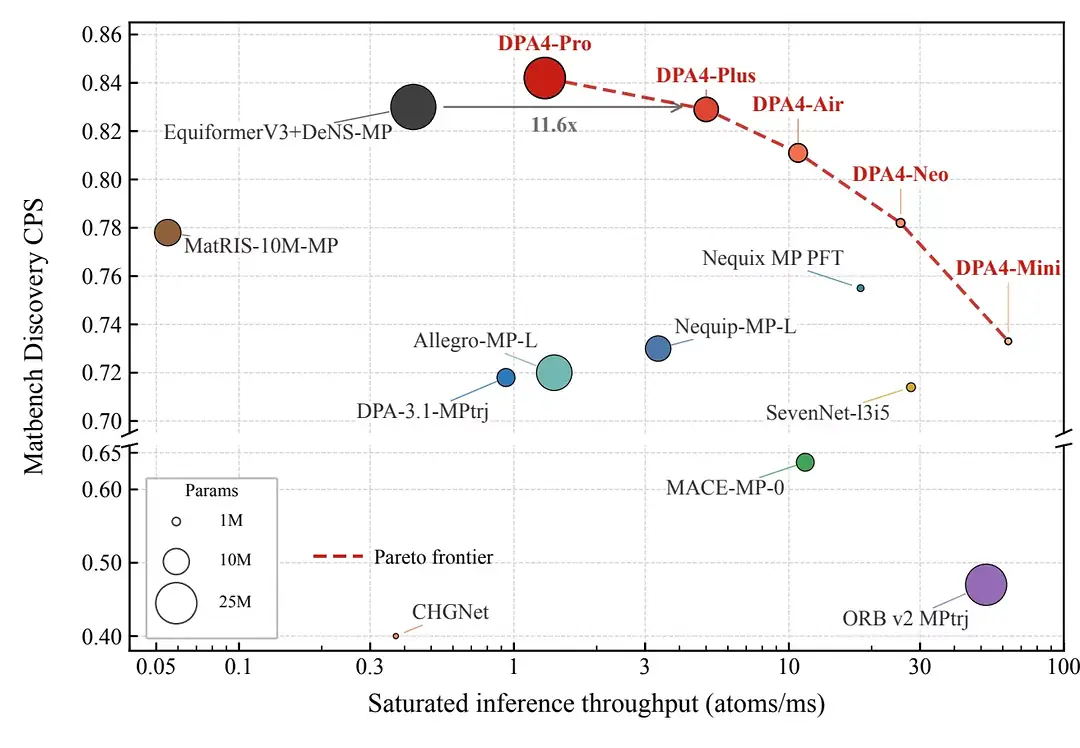
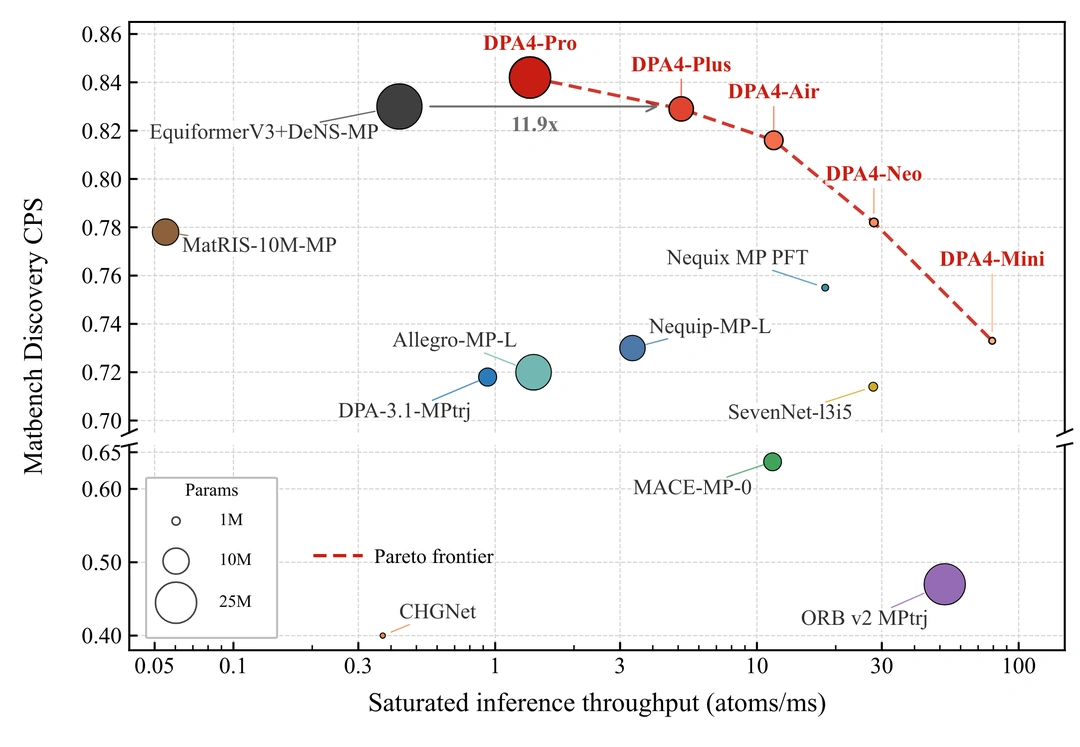
docs: recommend DPA4 and DPA4C in README (#5979)
## Summary

- Recommend DPA4 when accuracy is the priority and DPA4C when throughput
or system scale is the binding constraint.
- Update the pretrained and fine-tuning quick start to use a built-in
DPA4 OMat24 single-task checkpoint, and remove the experimental
DPA4-only LoRA workflow from the project landing page.
- Replace the DPA-3 and DeepPot-SE default examples with DPA4 and DPA4C
examples, and refresh both Pareto figures from the latest results.

## Validation

- All pre-commit hooks passed during commit.
- `git diff --check upstream/master...HEAD`
- `dp pretrained download -h` lists the documented DPA4 checkpoint.
- Verified the DPA4, DPA4C, and DPA4 OMat24 links return HTTP 200.

<!-- This is an auto-generated comment: release notes by coderabbit.ai
-->
## Summary by CodeRabbit

- **Documentation**
- Updated the README to feature DPA4 and DPA4C as the primary model
families.
- Refreshed pretrained-model and fine-tuning guidance with DPA4 OMat24
checkpoints.
- Added training examples for accuracy-focused DPA4 and
throughput-focused DPA4C workflows.
  - Removed outdated LoRA and legacy branch-selection instructions.
  - Updated references and links for DPA4, DPA4 OMat24, and DPA4C.
<!-- end of auto-generated comment: release notes by coderabbit.ai -->

diff --git a/README.md b/README.md
@@ -20,9 +20,9 @@ and deploy it at simulation scale.**
 
 > [!IMPORTANT]
 > **A pretrained model can be your starting point, not just your end result.**
-> Download a built-in DPA checkpoint, fine-tune the full model, or use a
-> [DPA-4 LoRA adapter][dpa4-lora] with PyTorch single-task training, then test,
-> export, and deploy it through the same DeePMD-kit workflow.
+> Download a built-in pretrained DPA4 checkpoint, fine-tune the full model for
+> your system, then test, export, and deploy it through the same DeePMD-kit
+> workflow.
 
 DeePMD-kit turns quantum-mechanical reference data into fast, scalable
 interatomic potentials. Use it across molecular and materials science—from
@@ -38,16 +38,16 @@ dynamics.
 
 ## ⚡ Why DeePMD-kit
 
-|     | Advantage                           | What it unlocks                                                                                                                                                                                                          |
-| --- | ----------------------------------- | ------------------------------------------------------------------------------------------------------------------------------------------------------------------------------------------------------------------------ |
-| 🧬  | **Pretrained-first workflows**      | Download [pretrained DPA models][pretrained], fine-tune full models, use [DPA-4 LoRA adapters][dpa4-lora] with PyTorch single-task training, or adapt learned representations to downstream properties with [DPA-ADAPT]. |
-| 🏗  | **Training from scratch**           | Design a model for a new system or physical target, then train it with single-task, multi-task, and distributed workflows across supported backends.                                                                     |
-| 🧠  | **Modern model portfolio**          | Start with efficient DeepPot-SE descriptors or move to [DPA][model-guide] for large atomistic models.                                                                                                                    |
-| 🧲  | **More than energy and force**      | Model virials, Hessians, spin and magnetic forces, dipoles, polarizabilities, electronic density of states, atomic populations, and arbitrary intensive or extensive properties.                                         |
-| 🔄  | **Backend flexibility**             | Train or run supported models with [TensorFlow, PyTorch, JAX, or Paddle][backends], with backend-aware model formats and conversion paths for compatible architectures.                                                  |
-| 🚀  | **Performance from training to MD** | Use CPUs, CUDA GPUs, ROCm source builds, distributed training, model compression, compiled DPA-4 paths, AOTInductor `.pt2` export, and MPI-enabled simulation.                                                           |
-| 🔌  | **Deploy where science happens**    | Use the CLI, Python, C, C++, or Node.js, then connect models to LAMMPS, i-PI, ASE, GROMACS, JAX MD, nvalchemi, OpenMM, Amber, CP2K, ABACUS, and more.                                                                    |
-| 🧩  | **Open and extensible**             | Compose hybrid potentials, add analytical ZBL or long-range corrections, create custom models and operators, or connect external GNNs such as MACE and NequIP through plugins.                                           |
+|     | Advantage                           | What it unlocks                                                                                                                                                                  |
+| --- | ----------------------------------- | -------------------------------------------------------------------------------------------------------------------------------------------------------------------------------- |
+| 🧬  | **Pretrained-first workflows**      | Download [pretrained DPA4 models][dpa4-omat24], fine-tune full models, or adapt supported pretrained representations to downstream properties with [DPA-ADAPT].                  |
+| 🏗  | **Training from scratch**           | Design a model for a new system or physical target, then train it with single-task, multi-task, and distributed workflows across supported backends.                             |
+| 🧠  | **Modern model portfolio**          | For conservative energy/force interatomic potentials, start with [DPA4] for accuracy or [DPA4C] for simulation throughput and scale.                                             |
+| 🧲  | **More than energy and force**      | Model virials, Hessians, spin and magnetic forces, dipoles, polarizabilities, electronic density of states, atomic populations, and arbitrary intensive or extensive properties. |
+| 🔄  | **Backend flexibility**             | Train or run supported models with [TensorFlow, PyTorch, JAX, or Paddle][backends], with backend-aware model formats and conversion paths for compatible architectures.          |
+| 🚀  | **Performance from training to MD** | Use CPUs, CUDA GPUs, ROCm source builds, distributed training, compiled DPA4 paths, compressed DPA4C CUDA inference, AOTInductor `.pt2` export, and MPI-enabled simulation.      |
+| 🔌  | **Deploy where science happens**    | Use the CLI, Python, C, C++, or Node.js, then connect models to LAMMPS, i-PI, ASE, GROMACS, JAX MD, nvalchemi, OpenMM, Amber, CP2K, ABACUS, and more.                            |
+| 🧩  | **Open and extensible**             | Compose hybrid potentials, add analytical ZBL or long-range corrections, create custom models and operators, or connect external GNNs such as MACE and NequIP through plugins.   |
 
 > [!TIP]
 > On supported descriptors and workloads, [model compression][compression] can
@@ -62,7 +62,7 @@ feature page.
 
 ```mermaid
 flowchart LR
-    A["Pretrained DPA model"] --> C["Fine-tune on target data"]
+    A["Pretrained DPA4 model"] --> C["Fine-tune on target data"]
     B["Model configuration"] --> D["Train from scratch"]
     E["Target reference data"] --> C
     E --> D
@@ -72,14 +72,13 @@ flowchart LR
     F --> H["Molecular dynamics"]
 ```
 
-1. **Choose a starting point:** download a pretrained DPA checkpoint for
-   adaptation, or configure a model to train from scratch.
+1. **Choose a starting point:** download a pretrained DPA4 checkpoint for
+   adaptation, or configure DPA4 or DPA4C to train from scratch.
 1. **Prepare target data** in DeePMD's NumPy format or convert structures and
    trajectories with [dpdata][data].
-1. **Fine-tune or train:** adapt the full pretrained model, use
-   [DPA-4 LoRA adapters][dpa4-lora] with PyTorch single-task training, or
-   optimize a new model with single-task, multi-task, and distributed training
-   workflows.
+1. **Fine-tune or train:** adapt the full pretrained DPA4 model, or optimize a
+   new DPA4 or DPA4C model with single-task, multi-task, and distributed
+   training workflows.
 1. **Validate and export** with [`dp test`][testing], [`dp freeze`][freeze],
    backend conversion, embedding extraction, and supported compression paths.
 1. **Run simulation** through Python or native APIs, or load the model into a
@@ -98,31 +97,38 @@ dp -h
 The [installation guide][installation] covers pip, conda-forge, containers,
 offline packages, GPU builds, LAMMPS, i-PI, and source installation.
 
-### Fine-tune from a pretrained DPA model
+### Fine-tune a pretrained DPA4 model
 
-Download a built-in checkpoint, inspect its branches, and fine-tune the branch
-that matches your target system:
+Download a built-in checkpoint, start from its matching released training
+configuration, and fine-tune it on your target data. This example uses DPA4-Neo,
+one of the recommended general-purpose sizes:
 
 ```bash
-dp pretrained download DPA-3.2-5M
-dp --pt show ~/.cache/deepmd/pretrained/models/DPA-3.2-5M.pt model-branch
-dp --pt train input.json \
-    --finetune ~/.cache/deepmd/pretrained/models/DPA-3.2-5M.pt \
-    --model-branch <branch> \
-    --use-pretrain-script
+dp pretrained download DPA4-Neo-OMat24-v20260805
+curl -fsSL \
+    https://huggingface.co/deepmodelingcommunity/DPA4-OMat24/resolve/main/DPA4-Neo-OMat24-v20260805.json \
+    -o input_finetune.json
 ```
 
-`DPA-3.2-5M` is a PyTorch multi-task checkpoint: run the trainer in PyTorch
-mode with `dp --pt` and select the branch that matches your system with
-`--model-branch` (list them with
-`dp --pt show ~/.cache/deepmd/pretrained/models/DPA-3.2-5M.pt model-branch`). The
-`--use-pretrain-script` option imports that branch's descriptor and fitting
-configuration, so `input.json` does not need to reproduce the DPA-3.2
-architecture.
+The [DPA4 OMat24 release][dpa4-omat24] provides Nano, Mini, Neo, Air, and Plus
+checkpoints together with their matching training configurations. The downloaded
+`input_finetune.json` matches the Neo checkpoint above; for another size or
+version, use the correspondingly named JSON file. Keep its complete `model`
+section unchanged, including the full-periodic-table `type_map`; replace the
+training and validation data, and use a smaller learning rate for fine-tuning.
+Then run:
 
-The [fine-tuning guide][finetune] covers full-model adaptation. [DPA-4 LoRA
-fine-tuning][dpa4-lora] is available for PyTorch single-task training.
-[DPA-ADAPT] reuses pretrained DPA representations for downstream
+```bash
+dp --pt train input_finetune.json \
+    --finetune ~/.cache/deepmd/pretrained/models/DPA4-Neo-OMat24-v20260805.pt
+```
+
+These are PyTorch single-task checkpoints, so no model branch selection is
+needed. They target inorganic materials in the OMat24 chemical space; validate
+accuracy before using them outside that domain.
+
+The [fine-tuning guide][finetune] covers full-model adaptation. [DPA-ADAPT]
+reuses supported pretrained DPA representations for downstream
 property-prediction tasks.
 
 Pretrained model names can also be resolved and cached automatically by
@@ -131,7 +137,7 @@ Python:
 ```python
 from deepmd.infer import DeepPot
 
-potential = DeepPot("DPA-3.2-5M")
+potential = DeepPot("DPA4-Neo-OMat24-v20260805")
 ```
 
 ### Train a model from scratch
@@ -142,37 +148,49 @@ checkpoint. Clone the examples and start with the compact water system:
 
 ```bash
 git clone https://github.com/deepmodeling/deepmd-kit.git
-cd deepmd-kit/examples/water/se_e2_a
+cd deepmd-kit/examples/water/dpa4
 
-# TensorFlow backend
-dp train input.json
+# Accuracy-first DPA4 model
+dp --pt train input.json
 
-# Or PyTorch
-dp --pt train input_torch.json
+# Or the throughput-first DPA4C model
+cd ../dpa4c
+dp --pt-expt train input.json
 ```
 
 Ready-to-run inputs include:
 
-- [DPA-3 water training](./examples/water/dpa3/input_torch.json)
-- [DPA-4 water training](./examples/water/dpa4/input.json)
-- [Multi-task training](./examples/water_multi_task/pytorch_example/input_torch.json)
+- [DPA4 water training](./examples/water/dpa4/input.json)
+- [DPA4C high-throughput water training](./examples/water/dpa4c/input.json)
+- [DPA4 multi-task training](./examples/water/dpa4/input_multitask.json)
 - [DPA-ADAPT property prediction](./examples/dpa_adapt/README.md)
 
 For a guided end-to-end example, open the [web quick-start notebook][quick-start].
 
 ## 🧠 Choose a model family
 
-DeepPot-SE is a strong default: efficient, established, and broadly supported.
-For large atomistic models, start with [DPA-4](https://docs.deepmodeling.com/projects/deepmd/en/latest/model/dpa4.html).
+For conservative energy/force interatomic potentials, start with the DPA4
+family. The choice between its two primary models follows the constraint that
+matters most for your workload:
 
-Use the [model guide][model-guide] to compare model families, supported backends,
-targets, data formats, precision, compression, and deployment constraints.
+| Priority                           | Start with | Why                                                                                                  |
+| ---------------------------------- | ---------- | ---------------------------------------------------------------------------------------------------- |
+| Highest accuracy                   | [DPA4]     | SO(3)-equivariant message passing targets the accuracy frontier.                                     |
+| Highest throughput or system scale | [DPA4C]    | A compact one-hop descriptor targets the throughput frontier and supports compressed CUDA inference. |
+
+DPA4 uses the PyTorch backend (`dp --pt`). DPA4C currently uses the PyTorch
+Exportable backend (`dp --pt-expt`); its compressed CUDA path requires
+`float32`.
+
+For other physical targets, use the [model guide][model-guide] to select a
+compatible model and backend. The guide also compares data formats, precision,
+compression, and deployment constraints.
 
 <p align="center">
-  <img alt="DPA4 energy and force accuracy versus saturated throughput" src="./doc/_static/dpa4-performance.webp" width="1200">
+  <img alt="DPA4 and DPA4C energy and force accuracy versus saturated throughput" src="./doc/_static/dpa4-performance.webp" width="1200">
 </p>
 
-<p align="center"><em>DPA4 provides a family of accuracy–throughput trade-offs for different deployment budgets.</em></p>
+<p align="center"><em>For energy/force potentials, DPA4 and DPA4C span accuracy–throughput trade-offs for different deployment budgets.</em></p>
 
 ## 🔬 Go beyond conventional force fields
 
@@ -258,7 +276,9 @@ DeePMD-kit is licensed under the
 [data]: https://docs.deepmodeling.com/projects/deepmd/en/latest/data/dpdata.html
 [documentation]: https://docs.deepmodeling.com/projects/deepmd/en/latest/
 [dpa-adapt]: https://docs.deepmodeling.com/projects/deepmd/en/latest/dpa_adapt/overview.html
-[dpa4-lora]: https://docs.deepmodeling.com/projects/deepmd/en/latest/model/dpa4.html#lora-fine-tuning
+[dpa4]: https://docs.deepmodeling.com/projects/deepmd/en/latest/model/dpa4.html
+[dpa4-omat24]: https://huggingface.co/deepmodelingcommunity/DPA4-OMat24
+[dpa4c]: https://docs.deepmodeling.com/projects/deepmd/en/latest/model/dpa4c.html
 [embeddings]: https://docs.deepmodeling.com/projects/deepmd/en/latest/inference/embedding.html
 [finetune]: https://docs.deepmodeling.com/projects/deepmd/en/latest/train/finetuning.html
 [freeze]: https://docs.deepmodeling.com/projects/deepmd/en/latest/freeze/freeze.html
